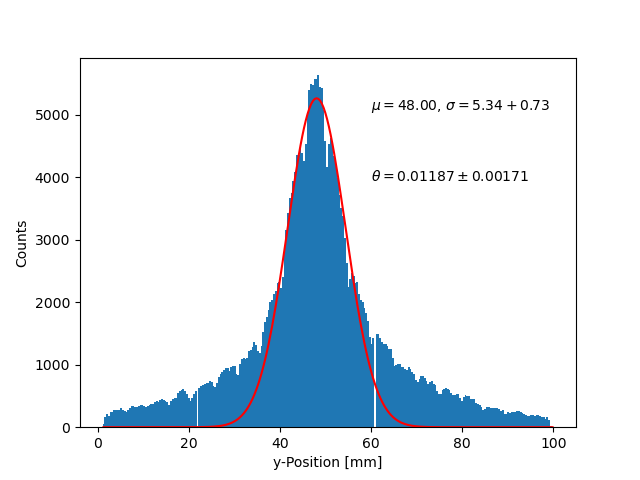
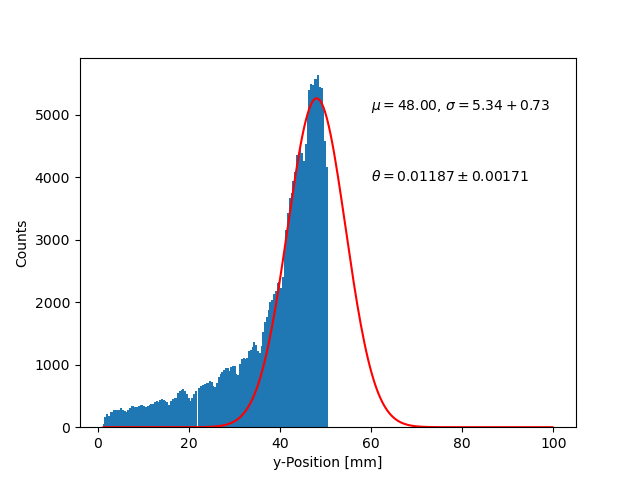
y

Changed region(s): [[0.5, 0.2812, 0.875, 0.9062]]

diff --git a/src/elsa/dataReader.py b/src/elsa/dataReader.py
@@ -92,10 +92,10 @@ def drawHistograms(file, histogramArray, indexTranslation):
         ycenters = 0.5 * (yedges[:-1] + yedges[1:])
         
         #mirroring the Array so that the data becomes easier to analyze and the sensitivity difference between apvs is ignored.
-        #yMirrorcounts = mirrorArrayLeft(ycounts)
-        #for k in range(round(len(yMirrorcounts)/2), len(yMirrorcounts)):
-        #    yMirrorcounts[k]=0
-        yMirrorcounts = ycounts
+        yMirrorcounts = mirrorArrayLeft(ycounts)
+        for k in range(round(len(yMirrorcounts)/2), len(yMirrorcounts)):
+            yMirrorcounts[k]=0
+        #yMirrorcounts = ycounts
         #yMirrorcounts = mirrorArrayRight(ycounts)
 
         #Now start a gauss fit by doing an initial guess
